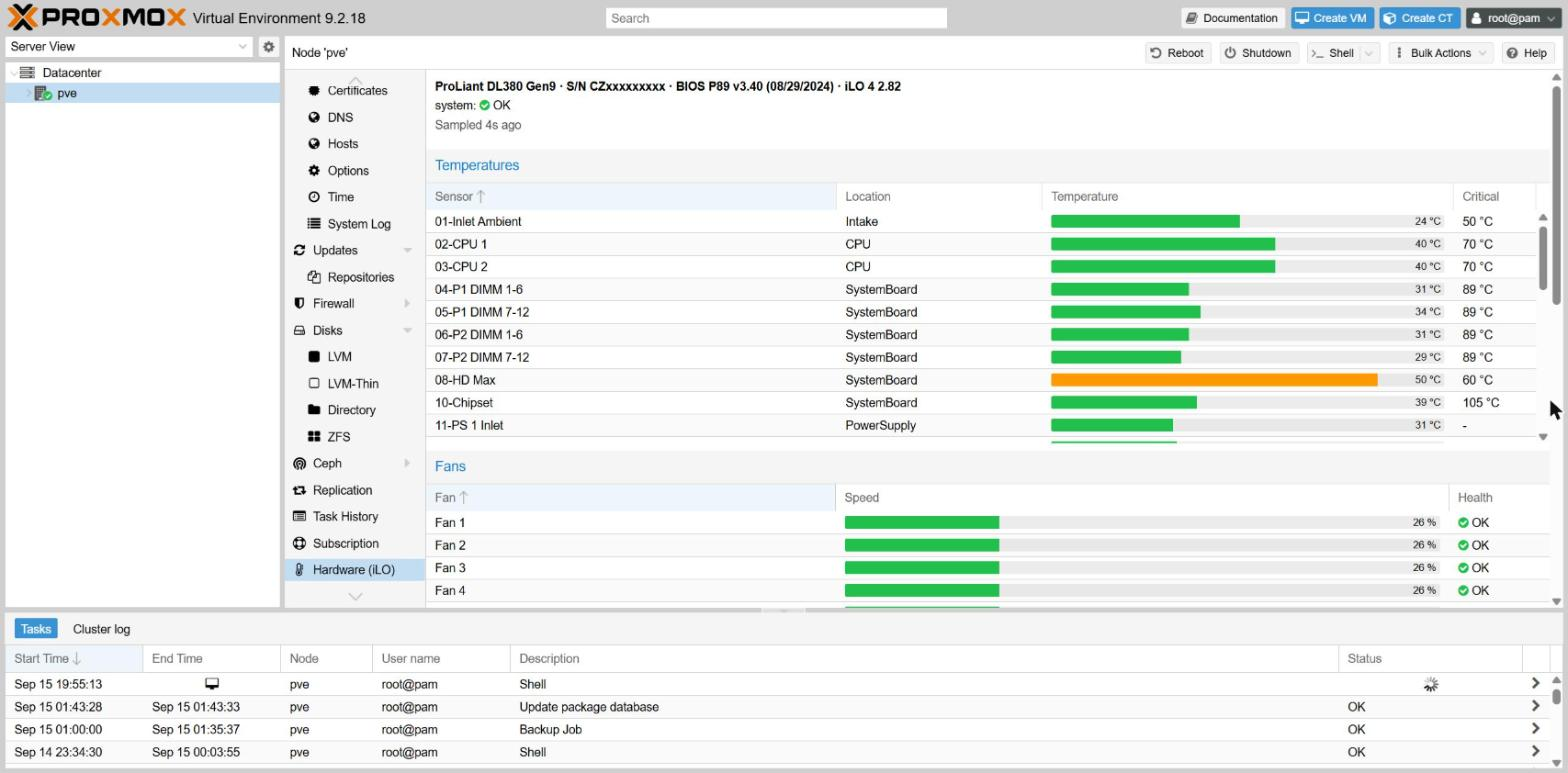
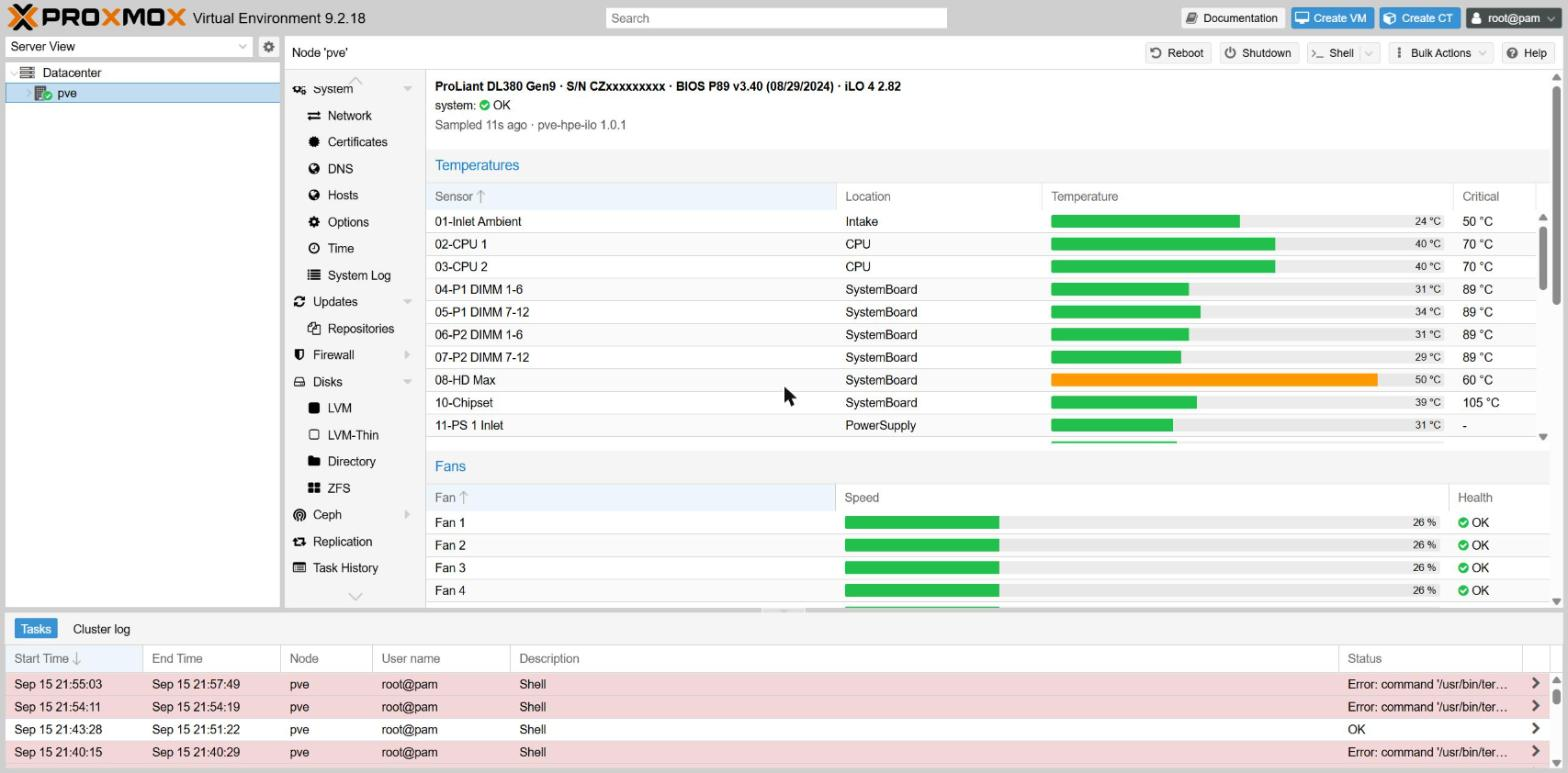
Update screenshots for 1.0.1
Retaken on the node now that the smartctl enrichment and the locate LED
are both live: drive temperatures, run time and defect counts are filled
in, and the Locate column is visible.

The server serial is masked and the guest list collapsed -- an inventory
of which services a homelab runs is not something a screenshot should
publish on its owner's behalf.

diff --git a/README.md b/README.md
@@ -9,7 +9,7 @@ whose Redfish schema names several fields differently.
 
 ![Sensors and fans in the node view](docs/panel-sensors.jpg)
 
-![Smart Array state, with drive temperatures filled in from smartctl](docs/panel-storage.jpg)
+![Smart Array state, with drive temperatures and run time filled in from smartctl, and a locate LED per bay](docs/panel-storage.jpg)
 
 ```
 iLO (Redfish) ──► pve-hpe-ilo-poller ──► /run/pve-hpe-ilo/telemetry.json
